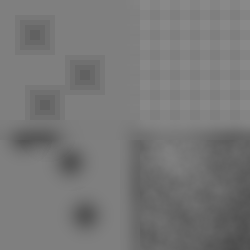
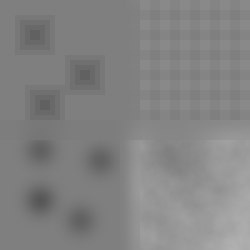
Adjusted multi terrain

diff --git a/utils/hm_gen.py b/utils/hm_gen.py
@@ -40,7 +40,7 @@ class HeightMapGenerator:
         # Normalize the result to be between 0 and 255
         height_map = (height_map - height_map.min()) / (height_map.max() - height_map.min()) * maximum
         height_map = height_map.astype(np.uint8)
-        self.height_map[start_x:end_x, start_y:end_y] -= height_map[start_x:end_x, start_y:end_y]
+        self.height_map[start_x:end_x, start_y:end_y] += height_map[start_x:end_x, start_y:end_y]
         return height_map
     
     def generate_gaussian_hills(self, num_hills, hill_height=255, hill_radius=50, start_x=0, start_y=0, end_x=150, end_y=150):
@@ -75,6 +75,30 @@ class HeightMapGenerator:
         # Clip values to ensure they are within valid range
         height_map_with_hills = np.clip(height_map_with_hills, 0, 255)
         self.height_map[ start_y:end_y, start_x:end_x] += height_map_with_hills
+        return height_map_with_hills
+    
+    def generate_gaussian_hill(self, hill_height=255, hill_radius=50, center_x=0, center_y=0):
+        """
+        Generate a Gaussian hill on the height map.
+
+        :param hill_height: Height of the hill
+        :param hill_radius: Radius of the hill
+        :param center_x: x-coordinate of the center of the hill
+        :param center_y: y-coordinate of the center of the hill
+        :return: numpy array representing the height map with the Gaussian hill
+        """
+        height_map_with_hills = np.zeros((self.width,self.height), dtype=np.uint8)  # Create a copy of the original height map
+        start_x = center_x-hill_radius
+        end_x = center_x+hill_radius
+        start_y = center_y-hill_radius
+        end_y = center_y+hill_radius
+        for y in range(start_y, end_y-1):
+            for x in range(start_x, end_x-1):
+                distance = np.sqrt((x - center_x) ** 2 + (y - center_y) ** 2)
+                if distance < hill_radius:
+                    height_map_with_hills[y][x] += hill_height * np.exp(-((distance ** 2) / ((hill_radius**2 /4))))
+        height_map_with_hills = np.clip(height_map_with_hills, 0, 255)
+        self.height_map[center_y-hill_radius:center_y+hill_radius, center_x-hill_radius:center_x+hill_radius] += height_map_with_hills[center_y-hill_radius:center_y+hill_radius, center_x-hill_radius:center_x+hill_radius]
         return height_map_with_hills
     
     def generate_linear_steps(self, num_steps=10, corner_x=0, corner_y=0, staircase_width=10, staircase_height=10, direction='horizontal_right'):
@@ -261,12 +285,16 @@ def main():
     hm_gen.stripes(25, 10, height=5, direction='horizontal', win_start_x=0, win_start_y=130, win_end_x=130, win_end_y=250)
 
     # Generate gaussian hills
-    hm_gen.generate_gaussian_hills(num_hills=4, hill_height=-40, hill_radius=30, start_x=0, start_y=130, end_x=130, end_y=250)
+    #hm_gen.generate_gaussian_hills(num_hills=4, hill_height=-40, hill_radius=30, start_x=0, start_y=130, end_x=130, end_y=250)
+    hm_gen.generate_gaussian_hill(hill_height=-40, hill_radius=30, center_x=40, center_y=200)
+    hm_gen.generate_gaussian_hill(hill_height=-30, hill_radius=30, center_x=80, center_y=220)
+    hm_gen.generate_gaussian_hill(hill_height=-30, hill_radius=30, center_x=40, center_y=150)
+    hm_gen.generate_gaussian_hill(hill_height=-30, hill_radius=30, center_x=100, center_y=160)
 
     #
     hm_gen.blur_height_map(sigma=6, start_x=0, start_y=120, end_x=250, end_y=140)
     hm_gen.blur_height_map(sigma=6, start_x=120, start_y=0, end_x=140, end_y=250)
-    #hm_gen.blur_height_map(sigma=5, start_x=120, start_y=0, end_x=140, end_y=250)
+    hm_gen.blur_height_map(sigma=5, start_x=120, start_y=0, end_x=140, end_y=250)
 
     # Define the filename
     filename = 'new_terrain.png'
